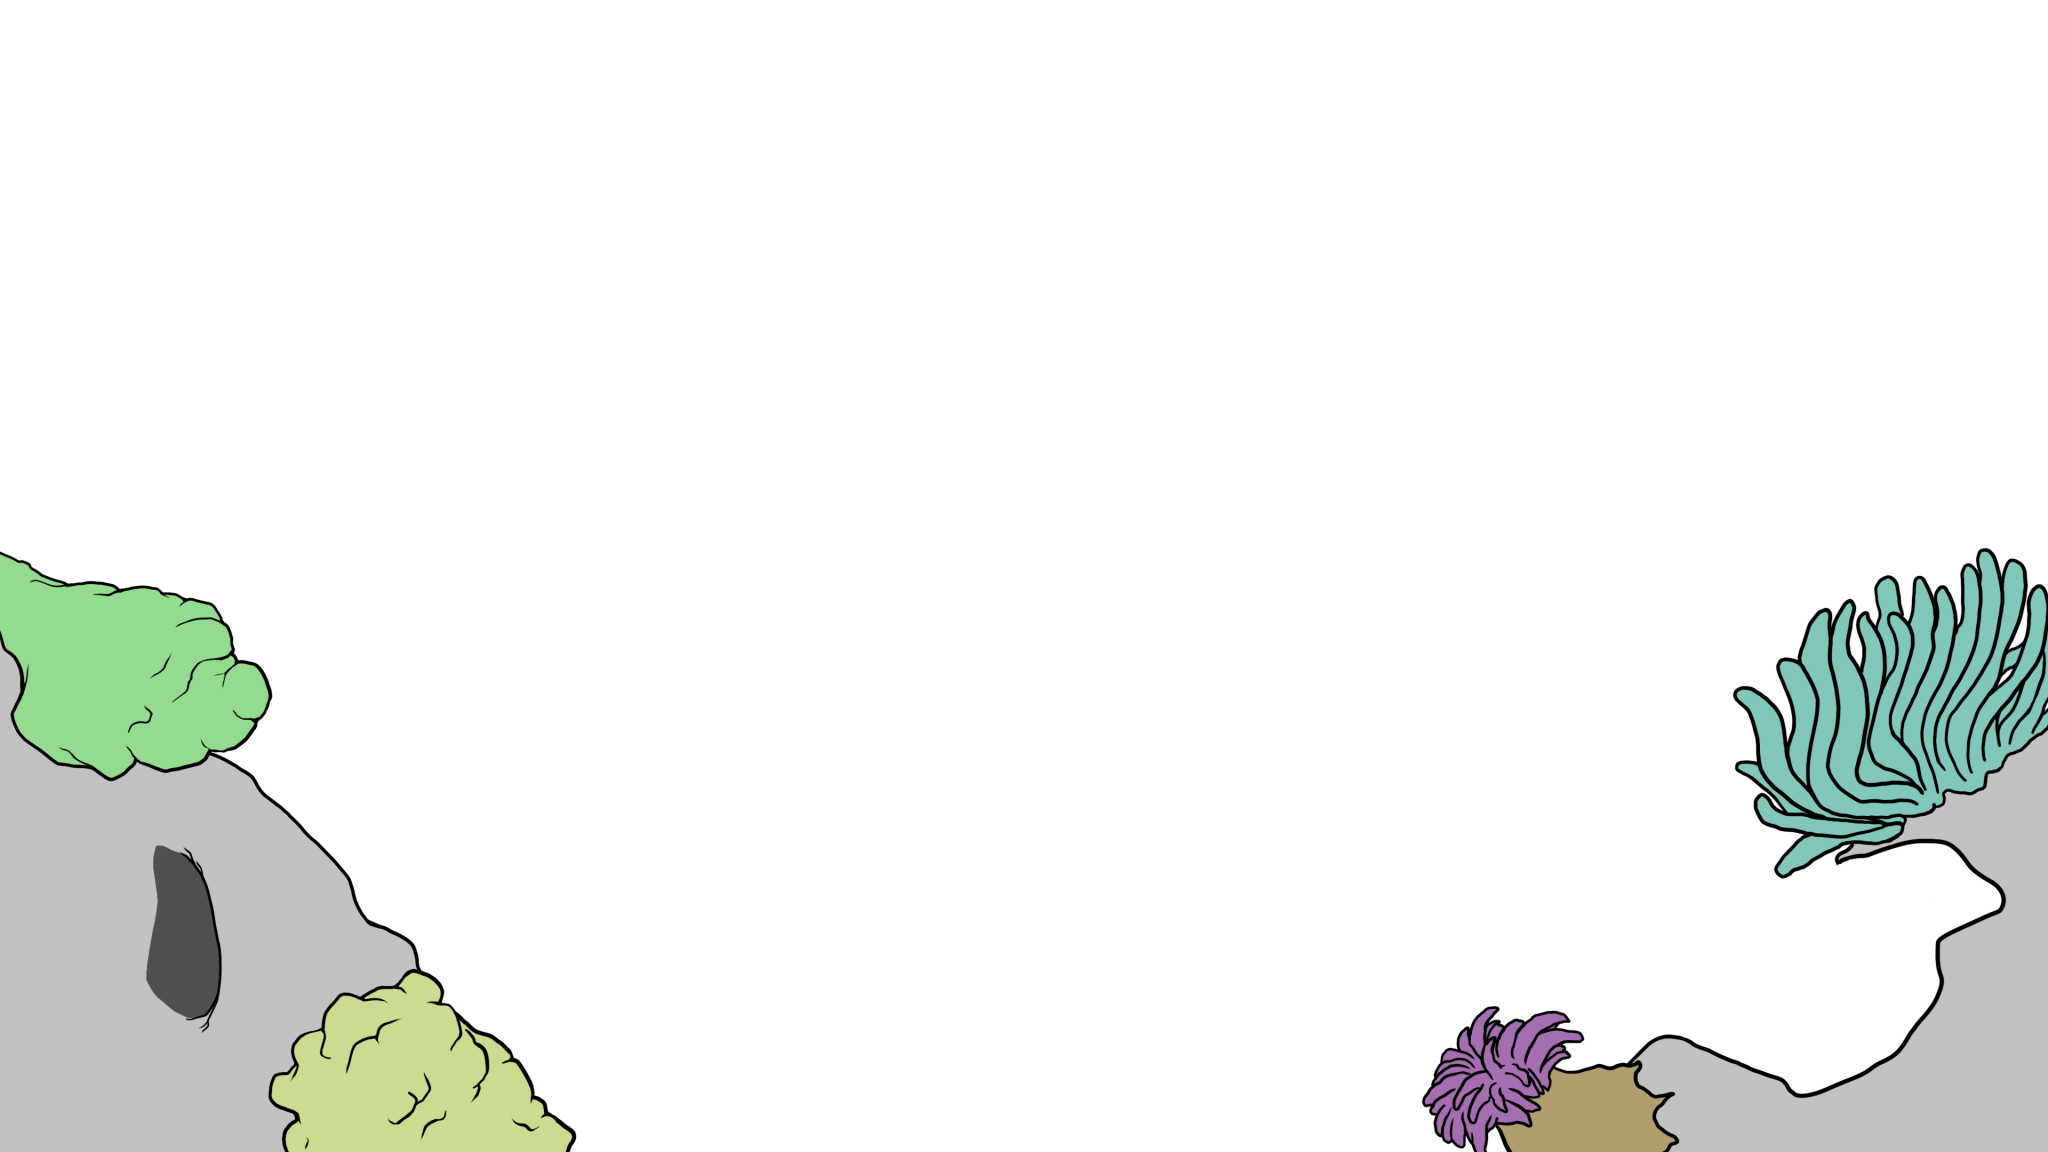
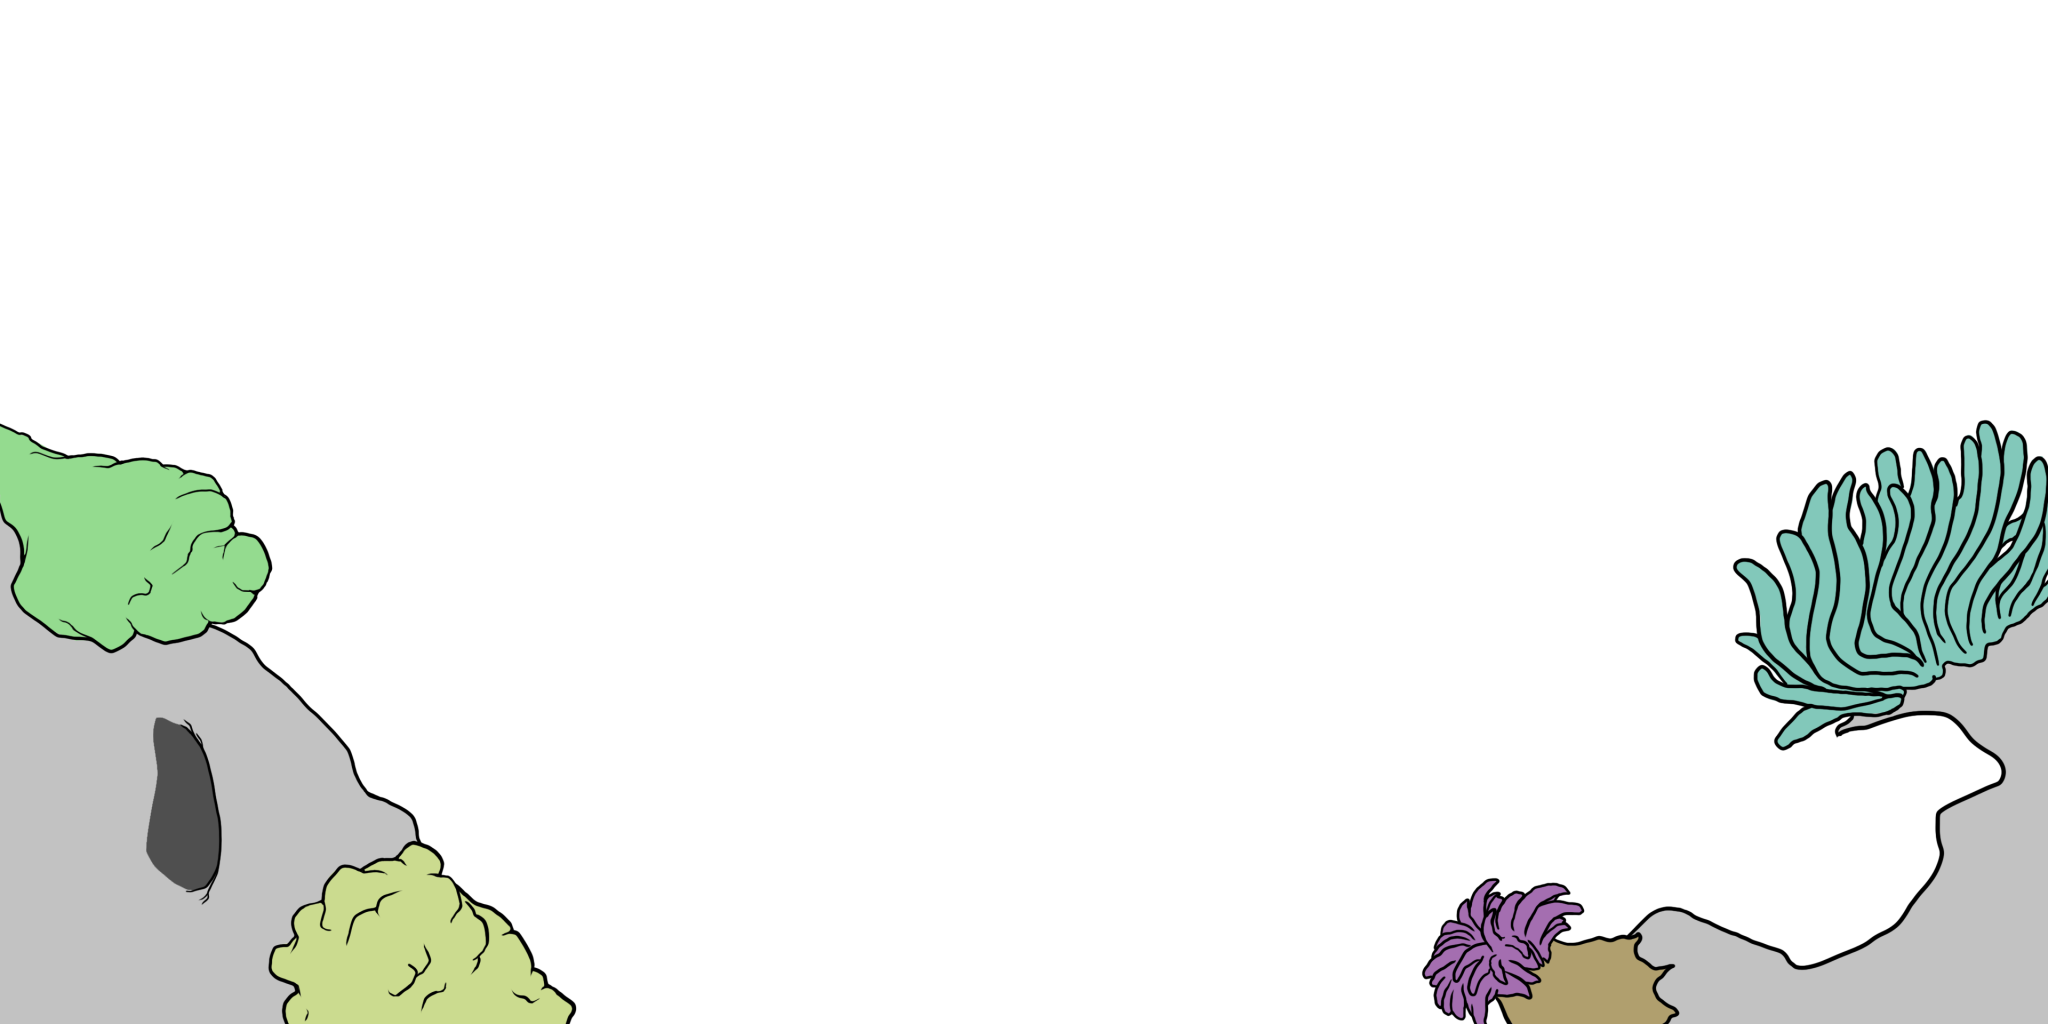
adjust layer images to attempt to fix flickering issues

diff --git a/src/main.js b/src/main.js
@@ -86,26 +86,11 @@ globalConfig.eelTexture = eelTexture;
 
 const plane_geometry = new THREE.PlaneBufferGeometry(globalConfig.emoteScale, globalConfig.emoteScale);
 
-const fragmentShader = require('./fragmentShader.js');
-const vertexShader = require('./vertexShader.js');
-const uniforms = {
-	time: { value: 1.0 },
-	"mRefractionRatio": { value: 1.02 },
-	"mFresnelBias": { value: 0.1 },
-	"mFresnelPower": { value: 2.0 },
-	"mFresnelScale": { value: 1.0 },
-	"tCube": { 
-		value: new THREE.CubeTextureLoader().load(new Array(6).fill(require('./fake_cube.jpg'), 0, 6)) 
-	},
-}
-
-const bubble_material = new THREE.ShaderMaterial({
-	uniforms,
-	fragmentShader,
-	vertexShader,
+const bubble_material = new THREE.MeshBasicMaterial({
+	map: new THREE.TextureLoader().load(require('./bubble.png')),
 	transparent: true,
 });
-const bubble_geometry = new THREE.SphereBufferGeometry(globalConfig.emoteScale/5, 32, 16);
+const bubble_geometry = new THREE.PlaneBufferGeometry(globalConfig.emoteScale/5, globalConfig.emoteScale/5);
 
 const getSpawnPosition = () => {
 	const side = Math.random() > 0.5 ? -1 : 1;
@@ -247,8 +232,6 @@ window.addEventListener('DOMContentLoaded', () => {
 		if (speedTimeRatio === NaN) speedTimeRatio = 1;
 		updateBubbles(speedTimeRatio);
 		lastFrame = Date.now();
-
-		uniforms.time.value = (Date.now() - startTime) / 160;
 
 		for (let index = 0; index < pendingEmoteArray.length; index++) {
 			const emotes = pendingEmoteArray[index];

diff --git a/src/environment.js b/src/environment.js
@@ -16,7 +16,7 @@ const seaWeedMaterial = new THREE.MeshBasicMaterial({
 });
 console.log(seaWeedImageURL)
 
-const planeGeometry = new THREE.PlaneBufferGeometry(1.777777777777778, 1);
+const planeGeometry = new THREE.PlaneBufferGeometry(2, 1);
 const newPlaneImage = (url, options = {}) => {
 	options = Object.assign({
 		zpos: 10,
@@ -90,15 +90,17 @@ module.exports = (scene, globalConfig) => {
 	const layerOffset = 0.01;
 	const layer1 = newPlaneImage(layerimages[0], {
 		zpos: 27,
-		scale: 11.2,
+		scale: 9.99,
 	});
+	layer1.position.y = -0.62
 	layer1.position.z -= (layerOffset * 0);
 	scene.add(layer1);
 
 	const layer3 = newPlaneImage(layerimages[2], {
 		zpos: 19,
-		scale: 22.45,
+		scale: 20.1,
 	});
+	layer3.position.y = -1.21;
 	layer3.position.z -= (layerOffset * 1);
 	scene.add(layer3);
 
@@ -124,22 +126,25 @@ module.exports = (scene, globalConfig) => {
 
 	const layer2 = newPlaneImage(layerimages[1], {
 		zpos: 19,
-		scale: 22.45,
+		scale: 20.1,
 	});
+	layer2.position.y = -1.21;
 	layer2.position.z -= (layerOffset * 3);
 	scene.add(layer2);
 
 	const layer4 = newPlaneImage(layerimages[3], {
 		zpos: 19,
-		scale: 22.45,
+		scale: 20.1,
 	});
+	layer4.position.y = -1.21;
 	layer4.position.z -= (layerOffset * 4);
 	scene.add(layer4);
 
 	const layer5 = newPlaneImage(layerimages[4], {
 		zpos: 10,
-		scale: 35,
+		scale: 31.3,
 	});
+	layer5.position.y = -1.9
 	layer5.position.z -= (layerOffset * 4);
 	scene.add(layer5);
 
